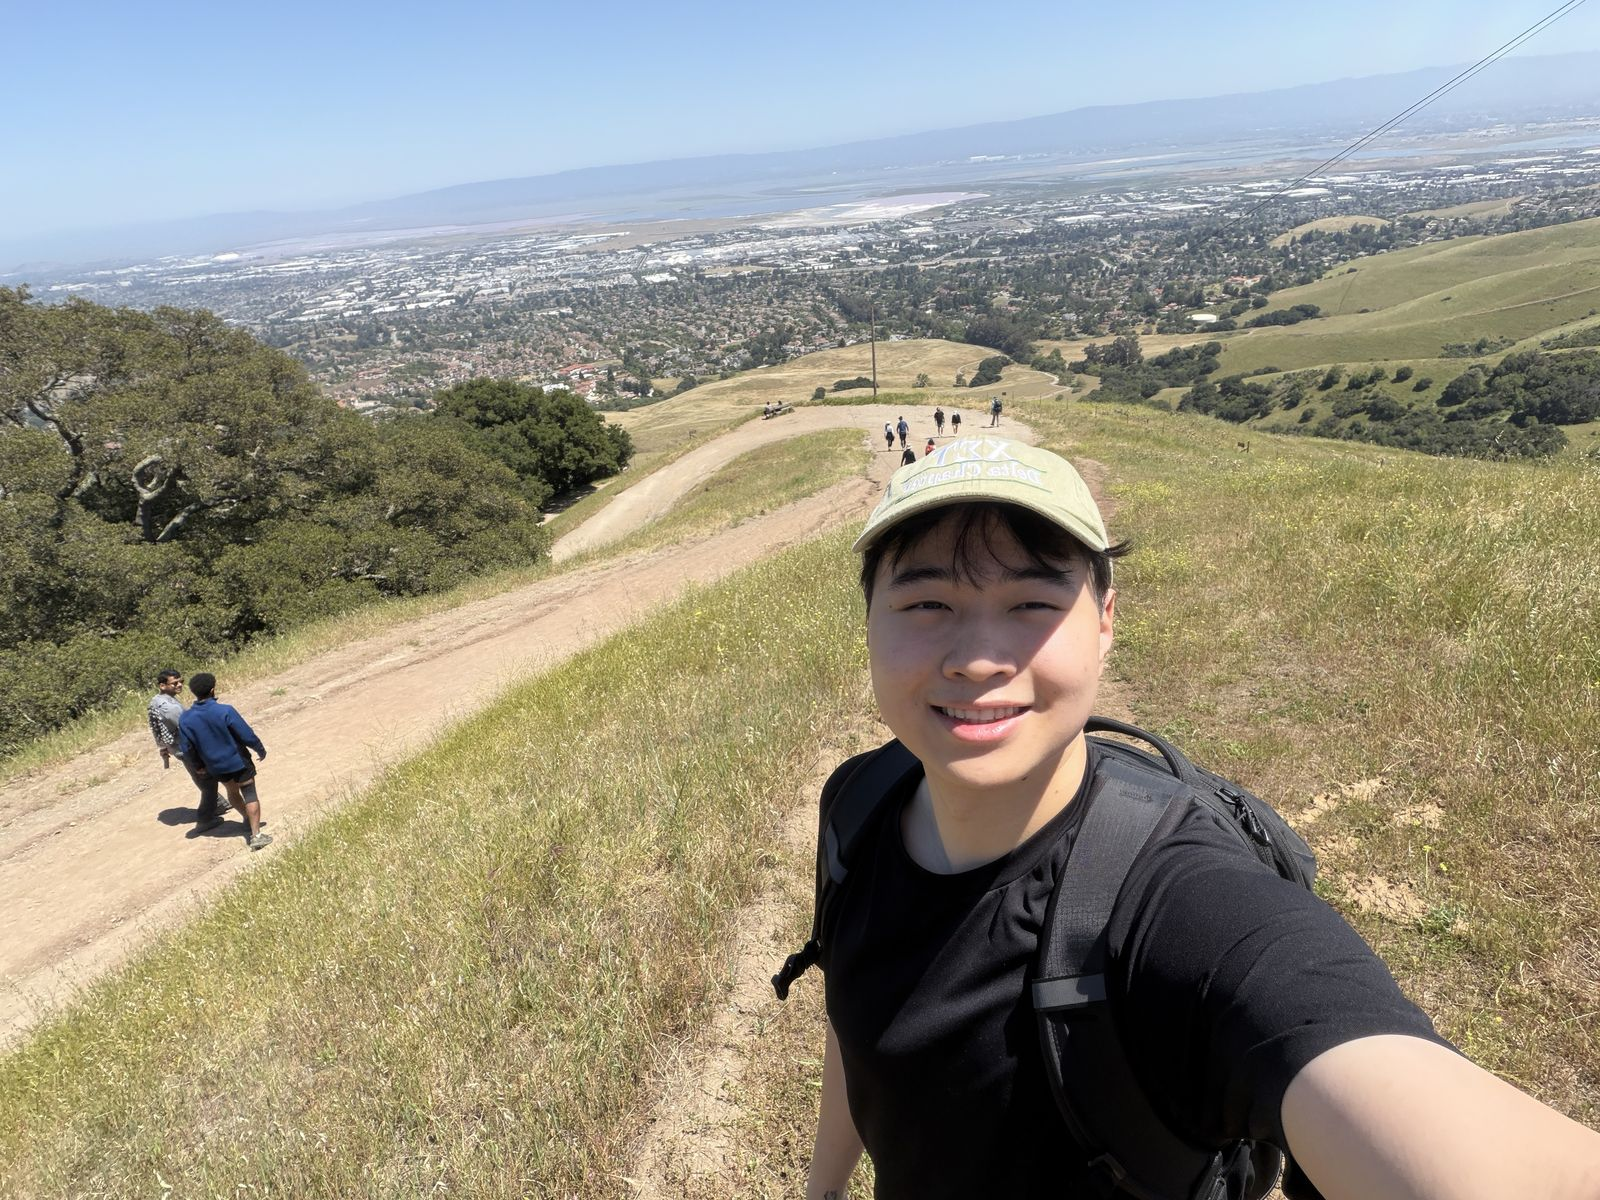
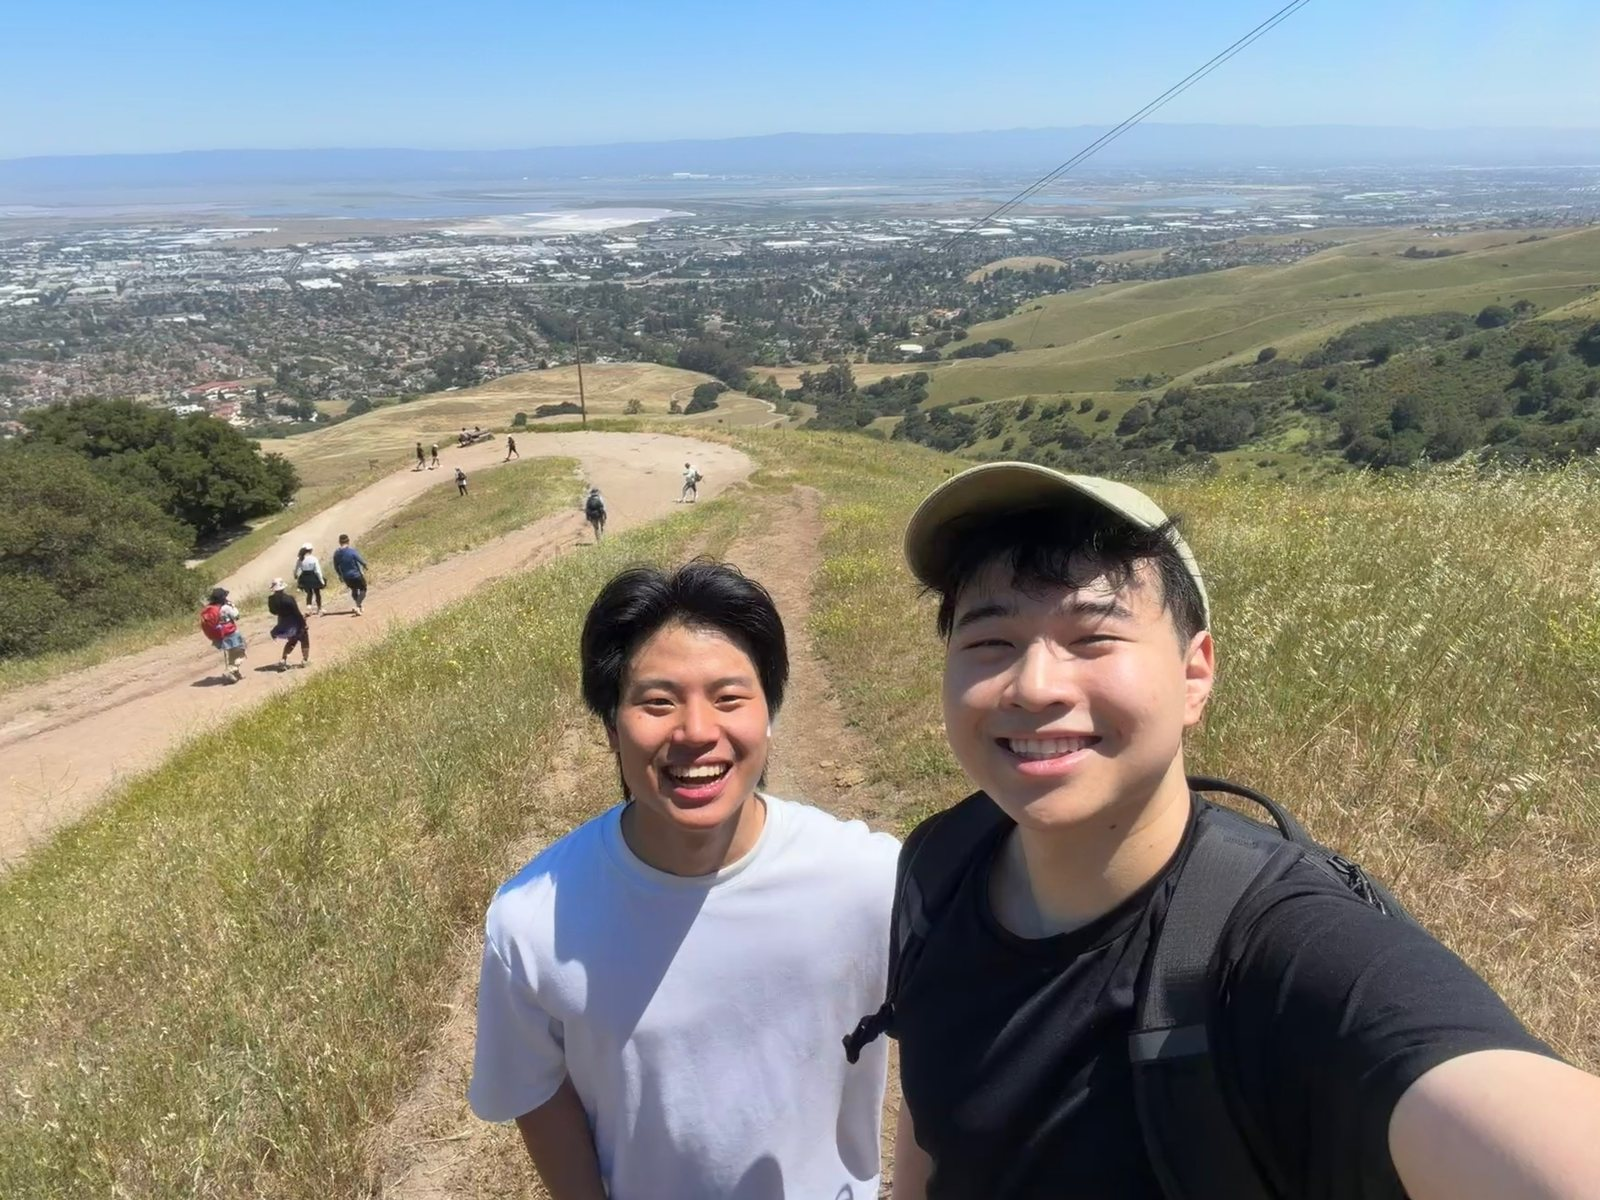
feat: refresh photo gallery and hero overscroll

diff --git a/src/data/gallery.ts b/src/data/gallery.ts
@@ -3,94 +3,52 @@
  * (resized to 1600px on the long edge, EXIF and location data stripped).
  */
 
+interface GalleryMedia {
+  alt: string;
+  width: number;
+  height: number;
+  /** What stays in frame when the row crops this photo (CSS object-position). */
+  position?: string;
+}
+
 export type GalleryItem =
-  | { type: 'image'; src: string; alt: string; width: number; height: number }
-  | { type: 'video'; src: string; poster: string; alt: string; width: number; height: number };
+  | (GalleryMedia & { type: 'image'; src: string })
+  | (GalleryMedia & { type: 'video'; src: string; poster: string });
 
 export interface GalleryMoment {
   id: string;
   title: string;
+  /** Row width ÷ height, to make this section taller than the shared row. */
+  rowAspect?: number;
   items: GalleryItem[];
 }
 
+/**
+ * Ordered for a recruiter: industry, building, leadership, then personal.
+ * A photo's width follows its shape, so item order sets which side the bigger
+ * one lands on. Keep it alternating down the page: right, left, right, left.
+ */
 export const GALLERY: GalleryMoment[] = [
   {
     id: 'meta',
     title: 'Visiting Meta',
+    rowAspect: 2.6,
     items: [
       {
         type: 'image',
         src: '/gallery/meta-2.jpg',
         alt: 'Darren pointing up at the Meta Connect 2026 screen on the Meta campus.',
         width: 1200,
-        height: 1600,
+        height: 1427,
+        position: 'bottom',
       },
       {
         type: 'image',
         src: '/gallery/meta-1.jpg',
         alt: 'A friend photographing Darren posing in front of the Meta Connect 2026 screen.',
         width: 1200,
-        height: 1600,
-      },
-    ],
-  },
-  {
-    id: 'tesla',
-    title: 'Visiting the Tesla factory',
-    items: [
-      {
-        type: 'image',
-        src: '/gallery/tesla-2.jpg',
-        alt: 'Rows of Teslas parked in front of the Tesla factory building.',
-        width: 1200,
-        height: 1600,
-      },
-      {
-        type: 'image',
-        src: '/gallery/tesla-1.jpg',
-        alt: 'A Model Y body-in-white on display beside a red robotic arm and an Optimus robot.',
-        width: 1600,
-        height: 1200,
-      },
-    ],
-  },
-  {
-    id: 'hiking',
-    title: 'Hiking',
-    items: [
-      {
-        type: 'image',
-        src: '/gallery/hiking-1.jpg',
-        alt: 'Selfie of Darren on a hillside trail above the South Bay.',
-        width: 1600,
-        height: 1200,
-      },
-      {
-        type: 'image',
-        src: '/gallery/hiking-2.jpg',
-        alt: 'Darren smiling in front of green rolling hills under a clear sky.',
-        width: 1200,
-        height: 1600,
-      },
-    ],
-  },
-  {
-    id: 'debate',
-    title: 'Debate in high school',
-    items: [
-      {
-        type: 'image',
-        src: '/gallery/debate-1.jpg',
-        alt: 'Darren speaking in a debate round for Mission San Jose.',
-        width: 1483,
-        height: 832,
-      },
-      {
-        type: 'image',
-        src: '/gallery/debate-2.jpg',
-        alt: 'The debate team posing with their trophies after a tournament.',
-        width: 870,
-        height: 649,
+        height: 933,
+        position: 'center 40%',
       },
     ],
   },
@@ -112,6 +70,87 @@ export const GALLERY: GalleryMoment[] = [
         alt: 'A LEGO Mindstorms EV3 robot and its parts laid out on a lab bench next to a laptop.',
         width: 1600,
         height: 1200,
+      },
+    ],
+  },
+  {
+    id: 'debate',
+    title: 'High school debate',
+    items: [
+      {
+        type: 'image',
+        src: '/gallery/debate-1.jpg',
+        alt: 'Darren speaking in a debate round for Mission San Jose.',
+        width: 1483,
+        height: 832,
+      },
+      {
+        type: 'image',
+        src: '/gallery/teaching-1.jpg',
+        alt: 'Volunteer coaches at the front of a classroom presenting a "Structure of Debate" slide to students with laptops.',
+        width: 1600,
+        height: 766,
+      },
+    ],
+  },
+  {
+    id: 'volunteer',
+    title: "President's Volunteer Service Award",
+    items: [
+      {
+        type: 'image',
+        src: '/gallery/volunteer-1.jpg',
+        alt: "Darren's 2019 Gold certificate for the President's Volunteer Service Award, for 250 hours of service, with its medallion.",
+        width: 1600,
+        height: 1200,
+        position: 'center 33%',
+      },
+      {
+        type: 'image',
+        src: '/gallery/volunteer-2.jpg',
+        alt: "The award's White House congratulations letter, envelope addressed to Darren, certificate and medallion laid out on a table.",
+        width: 1200,
+        height: 1600,
+      },
+    ],
+  },
+  {
+    id: 'hiking',
+    title: 'Hiking',
+    items: [
+      {
+        type: 'image',
+        src: '/gallery/hiking-2.jpg',
+        alt: 'Darren smiling in front of green rolling hills under a clear sky.',
+        width: 1200,
+        height: 1600,
+      },
+      {
+        type: 'image',
+        src: '/gallery/hiking-1.jpg',
+        alt: 'Selfie of Darren and a friend on a grassy ridge, with hikers on the trail and the South Bay behind them.',
+        width: 1600,
+        height: 1200,
+      },
+    ],
+  },
+  {
+    id: 'basketball',
+    title: 'Basketball',
+    items: [
+      {
+        type: 'image',
+        src: '/gallery/basketball-1.jpg',
+        alt: 'A packed Chase Center seen from the upper deck, with the court far below and the scoreboard overhead.',
+        width: 1600,
+        height: 1200,
+      },
+      {
+        type: 'image',
+        src: '/gallery/basketball-2.jpg',
+        alt: 'Group photo at center court of a gym, with players holding a basketball and colored balls.',
+        width: 1170,
+        height: 1225,
       },
     ],
   },

diff --git a/src/components/home/Grainient.tsx b/src/components/home/Grainient.tsx
@@ -110,6 +110,12 @@ interface GrainientProps {
   color1?: string;
   color2?: string;
   color3?: string;
+  /**
+   * Extra height the container extends above the frame, as a fraction of the
+   * frame's height. The gradient keeps the frame's proportions and simply
+   * continues upward, so the frame itself looks the same at any value.
+   */
+  bleedTop?: number;
   className?: string;
 }
 
@@ -135,6 +141,7 @@ export default function Grainient({
   color1 = '#00FFB2',
   color2 = '#003322',
   color3 = '#000000',
+  bleedTop = 0,
   className,
 }: GrainientProps) {
   const containerRef = useRef<HTMLDivElement>(null);
@@ -201,7 +208,7 @@ export default function Grainient({
       renderer.setSize(Math.max(1, Math.floor(rect.width)), Math.max(1, Math.floor(rect.height)));
       const res = program.uniforms.iResolution.value as Float32Array;
       res[0] = gl.drawingBufferWidth;
-      res[1] = gl.drawingBufferHeight;
+      res[1] = gl.drawingBufferHeight / (1 + bleedTop);
       if (reducedMotion) render();
     };
     const resizeObserver = new ResizeObserver(setSize);
@@ -238,7 +245,7 @@ export default function Grainient({
     timeSpeed, colorBalance, warpStrength, warpFrequency, warpSpeed,
     warpAmplitude, blendAngle, blendSoftness, rotationAmount, noiseScale,
     grainAmount, grainScale, contrast, gamma, saturation,
-    centerX, centerY, zoom, color1, color2, color3,
+    centerX, centerY, zoom, color1, color2, color3, bleedTop,
   ]);
 
   return <div ref={containerRef} aria-hidden="true" className={className} />;

diff --git a/src/components/home/PhotoGallery.tsx b/src/components/home/PhotoGallery.tsx
@@ -63,13 +63,13 @@ const PhotoGallery = forwardRef<PhotoGalleryHandle>(function PhotoGallery(_, ref
         {GALLERY.map((moment) => (
           <section key={moment.id} className={styles.moment} aria-labelledby={`gallery-${moment.id}`}>
             <h3 id={`gallery-${moment.id}`} className={styles.momentTitle}>{moment.title}</h3>
-            <div className={styles.grid}>
+            <div className={styles.grid} style={{ '--row-aspect': moment.rowAspect } as CSSProperties}>
               {moment.items.map((item) =>
                 item.type === 'video' ? (
                   <video
                     key={item.src}
                     className={styles.media}
-                    style={{ '--ar': item.width / item.height } as CSSProperties}
+                    style={{ '--ar': item.width / item.height, '--pos': item.position } as CSSProperties}
                     src={item.src}
                     poster={item.poster}
                     width={item.width}
@@ -84,7 +84,7 @@ const PhotoGallery = forwardRef<PhotoGalleryHandle>(function PhotoGallery(_, ref
                   <img
                     key={item.src}
                     className={styles.media}
-                    style={{ '--ar': item.width / item.height } as CSSProperties}
+                    style={{ '--ar': item.width / item.height, '--pos': item.position } as CSSProperties}
                     src={item.src}
                     alt={item.alt}
                     width={item.width}

diff --git a/src/views/HomePage.module.css b/src/views/HomePage.module.css
@@ -29,17 +29,23 @@
   min-width: 0;
 }
 
-/* Animated grainy gradient (Grainient), same look as the stock dashboard hero. */
+/*
+  Animated grainy gradient (Grainient), same look as the stock dashboard hero.
+  It runs half a hero above the page, so pulling down past the top (rubber-band
+  overscroll) reveals more gradient where the browser supports it. The top
+  offset must match bleedTop in HomePage.tsx.
+*/
 .backdrop {
   position: absolute;
-  inset: 0;
+  inset: -50% 0 0;
   z-index: 0;
   overflow: hidden;
   opacity: 0.5;
   pointer-events: none;
-  /* Let the gradient settle into the ground before the timeline starts. */
-  -webkit-mask-image: linear-gradient(to bottom, #000 72%, transparent);
-  mask-image: linear-gradient(to bottom, #000 72%, transparent);
+  /* Let the gradient settle into the ground before the timeline starts: the
+     fade begins 72% down the hero, which is (50 + 72) / 150 of this box. */
+  -webkit-mask-image: linear-gradient(to bottom, #000 81.33%, transparent);
+  mask-image: linear-gradient(to bottom, #000 81.33%, transparent);
 }
 
 .name {
@@ -168,7 +174,7 @@
   display: block;
 }
 
-/* Keep browser overscroll on graphite while this intro is mounted. */
+/* Past the backdrop's reach (or where it can't show), overscroll stays graphite. */
 :global(html):has(.hero),
 :global(body):has(.hero) {
   background: #17161f;

diff --git a/src/components/home/PhotoGallery.module.css b/src/components/home/PhotoGallery.module.css
@@ -87,11 +87,13 @@
 }
 
 /*
-  A justified row: each photo grows in proportion to its aspect ratio, so
-  portrait and landscape shots share one height without being cropped.
+  Every row is the same height (set by Early experiments' photos). Each photo's
+  width still follows its shape, so the bigger one keeps its side and the crop
+  is shared evenly; --pos in gallery.ts picks what stays in frame.
 */
 .grid {
   display: flex;
+  aspect-ratio: var(--row-aspect, 3.15);
   gap: clamp(0.75rem, 1.5vw, 1.25rem);
 }
 
@@ -99,9 +101,9 @@
   flex: var(--ar) 1 0;
   min-width: 0;
   width: 100%;
-  height: auto;
-  aspect-ratio: var(--ar);
+  height: 100%;
   object-fit: cover;
+  object-position: var(--pos, center);
   background: #1f1e28;
 }
 
@@ -119,9 +121,12 @@
 @media (max-width: 600px) {
   .grid {
     flex-direction: column;
+    aspect-ratio: auto;
   }
 
   .media {
     flex: none;
+    height: auto;
+    aspect-ratio: 3 / 2;
   }
 }

diff --git a/src/views/HomePage.test.tsx b/src/views/HomePage.test.tsx
@@ -39,10 +39,10 @@ describe('More photos', () => {
 
     const dialog = document.querySelector('dialog');
     expect(dialog).toHaveAttribute('open');
-    for (const title of ['Visiting Meta', 'Visiting the Tesla factory', 'Hiking', 'Debate in high school', 'Early experiments']) {
+    for (const title of ['Visiting Meta', 'Hiking', 'Basketball', 'High school debate', 'Early experiments']) {
       expect(within(dialog as HTMLElement).getByRole('heading', { level: 3, name: title })).toBeInTheDocument();
     }
-    expect(within(dialog as HTMLElement).getAllByRole('img')).toHaveLength(9);
+    expect(within(dialog as HTMLElement).getAllByRole('img')).toHaveLength(11);
   });
 });
 

diff --git a/src/views/HomePage.tsx b/src/views/HomePage.tsx
@@ -152,7 +152,8 @@ export default function HomePage() {
       {phase !== 'complete' && (
         <span className={styles.loadingStatus} role="status" aria-label="Loading portfolio">Loading portfolio</span>
       )}
-      <Grainient className={styles.backdrop} />
+      {/* bleedTop must match .backdrop's negative top. */}
+      <Grainient className={styles.backdrop} bleedTop={0.5} />
       <div className={styles.content}>
         <h1 id="hero-name" className={styles.name}>
           <span className={styles.nameText}>
